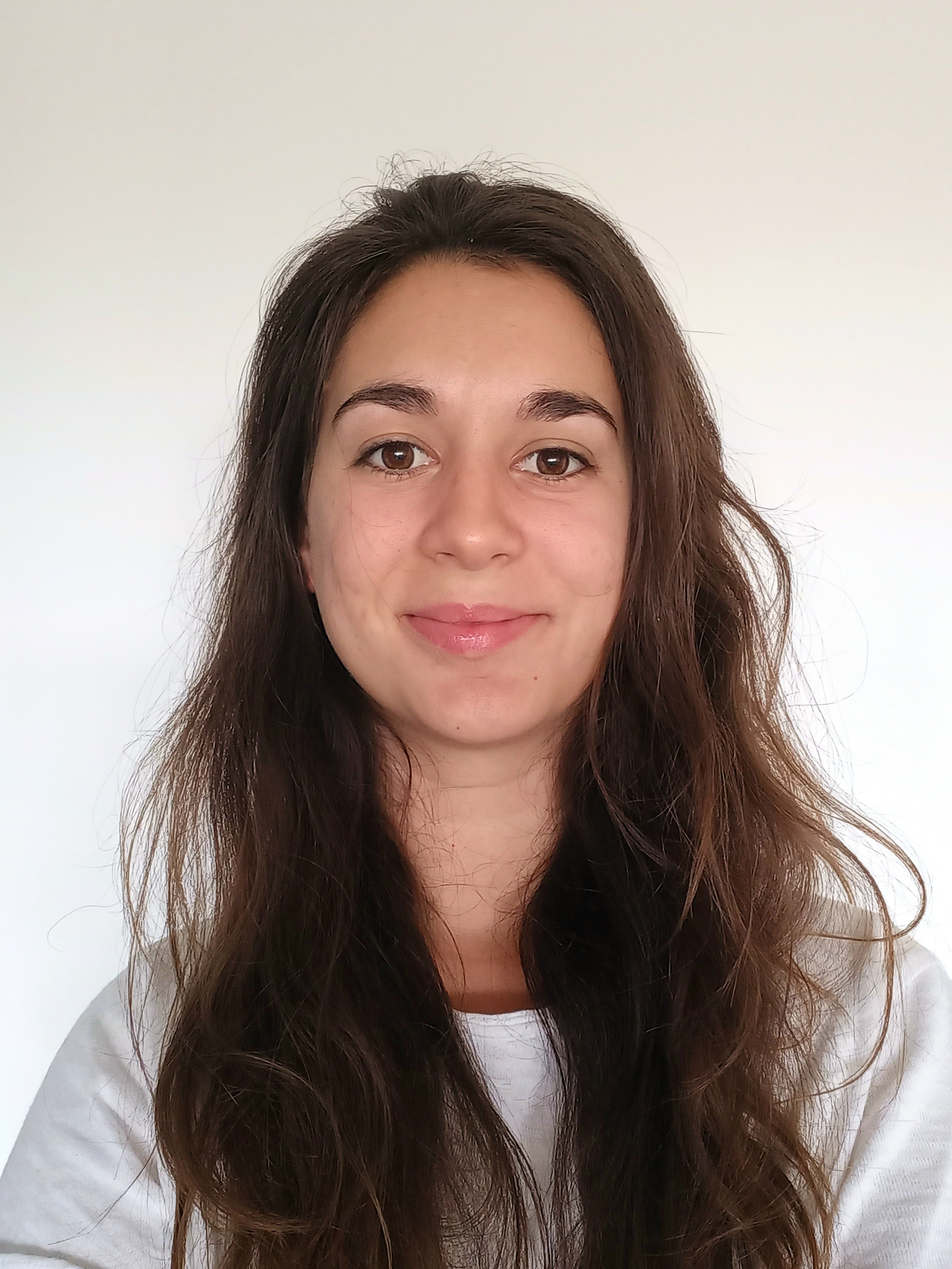
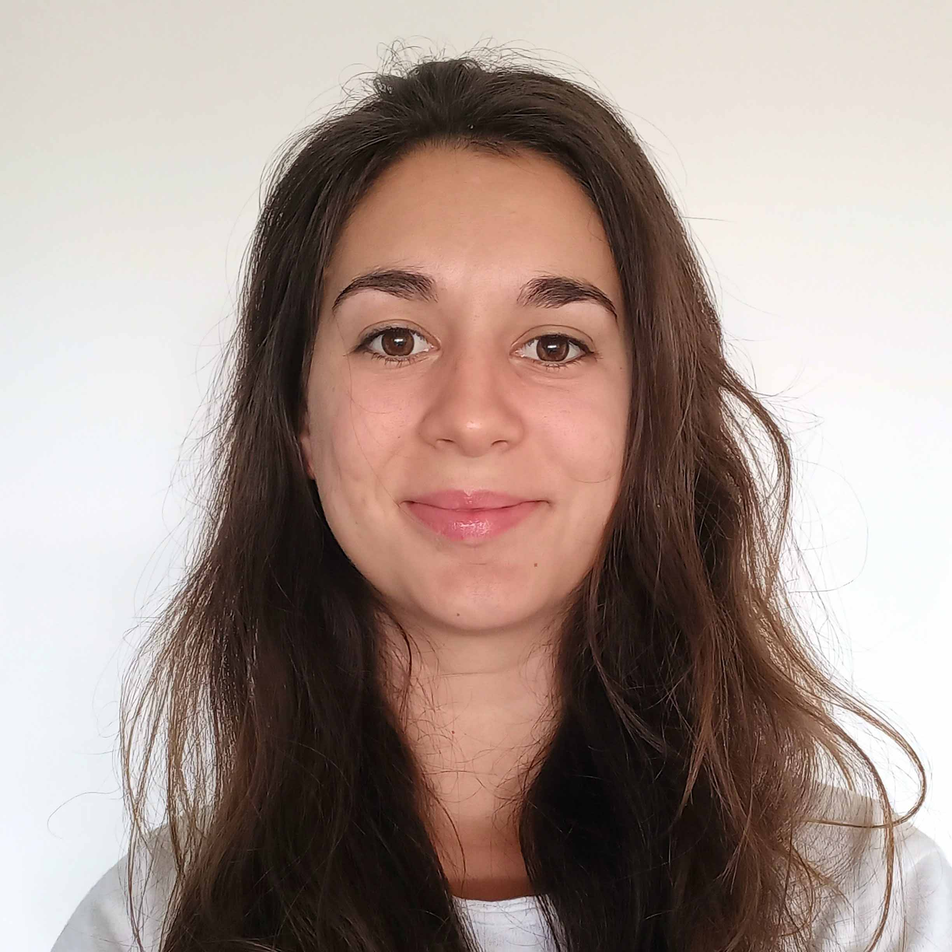
WIP elements perfectly responsive, update img, added desktop responsive

diff --git a/css/mainTop.css b/css/mainTop.css
@@ -30,7 +30,7 @@ main {
     align-items: center;
 }
 
-/* Left part ==================================== */
+/* Left part ------------------------------------ */
 
 .cv {
     position: relative;
@@ -43,30 +43,30 @@ main {
 }
 .cv__link {
     font-family: var(--text-font-title);
-    font-size: 3.5rem;
+    font-size: 8.5vw;
     font-weight: 560;
 }
 
 .profil {
-    width: 17rem;
-    height: 17rem;
+    width: 20rem;
+    height: 20rem;
     border-radius: 50%;
     overflow: hidden;
     z-index: 5;
 }
 .img__profil {
-    position: relative;
-    top: -1rem;
+    /* position: relative;
+    top: -1rem; */
     width: 100%;  
     object-fit: cover;
     transition: transform .3s ease-in-out;
 }
 
-/* Right part ==================================== */
+/* Right part ------------------------------------ */
 
 .name {
     font-family: var(--text-font-title);
-    font-size: 6rem;
+    font-size: 20vw;
     color: var(--text-color);
     margin-bottom: 1rem;
     font-weight: 560;
@@ -74,7 +74,56 @@ main {
 
 .work {
     font-family: var(--text-font);
-    font-size: 1.5rem;
+    font-size: 4.15vw;
     color: var(--text-color);
-    margin-bottom: 1rem;
+}
+
+/* Responsive mobile +768px ==================================== */
+@media only screen and (min-width : 768px) {
+    .main__top {
+        height: 100vh;
+        display: flex;
+        flex-direction: row;
+    }
+
+    /* Left part ------------------------------------ */
+
+    .home__left {
+        width: 100%;
+        height: 100%;
+        padding-top: 6rem;
+    }
+
+    .cv {
+        padding: 7rem;
+        top: -3rem;
+        right: 14rem;
+        border: solid 5px var(--color-white);
+
+    }
+    .cv__link {
+        font-size: 8rem;
+    }
+    
+    .profil {
+        width: 40rem;
+        height: 40rem;
+        position: relative;
+        top: -12rem;
+    }
+
+    /* Right part ------------------------------------ */
+
+    .home__right {
+        padding-top: 6rem;
+    }
+
+    /* .name {
+        font-size: 10vw;
+    }
+
+    .work {
+        font-size: 2.05vw;
+    } */
+
 }
